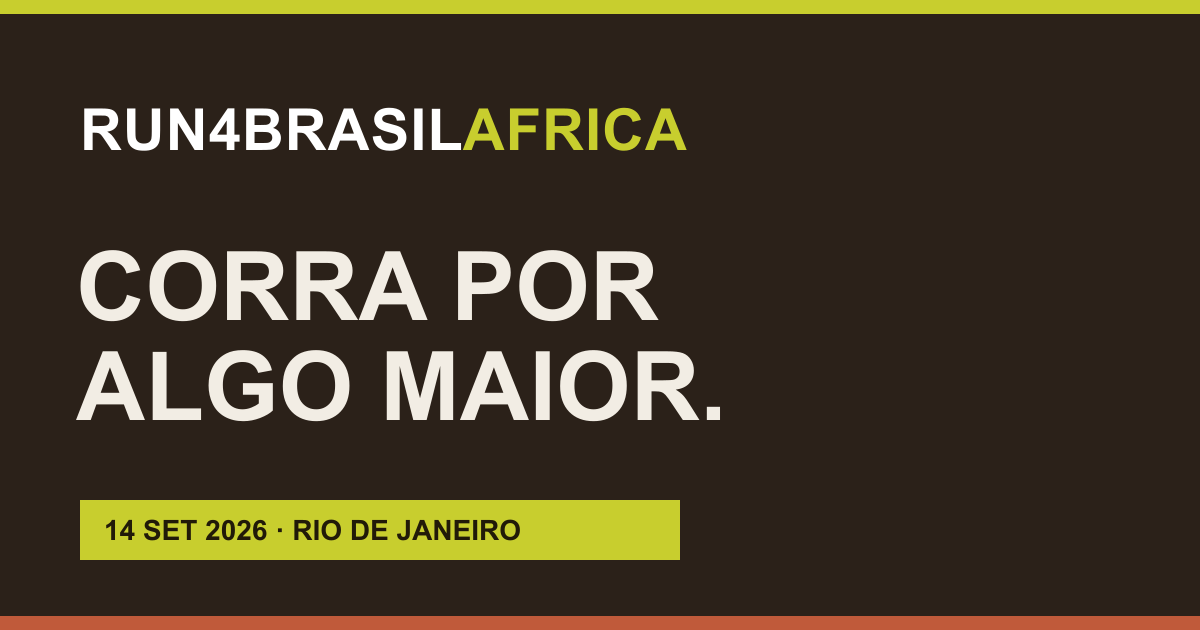
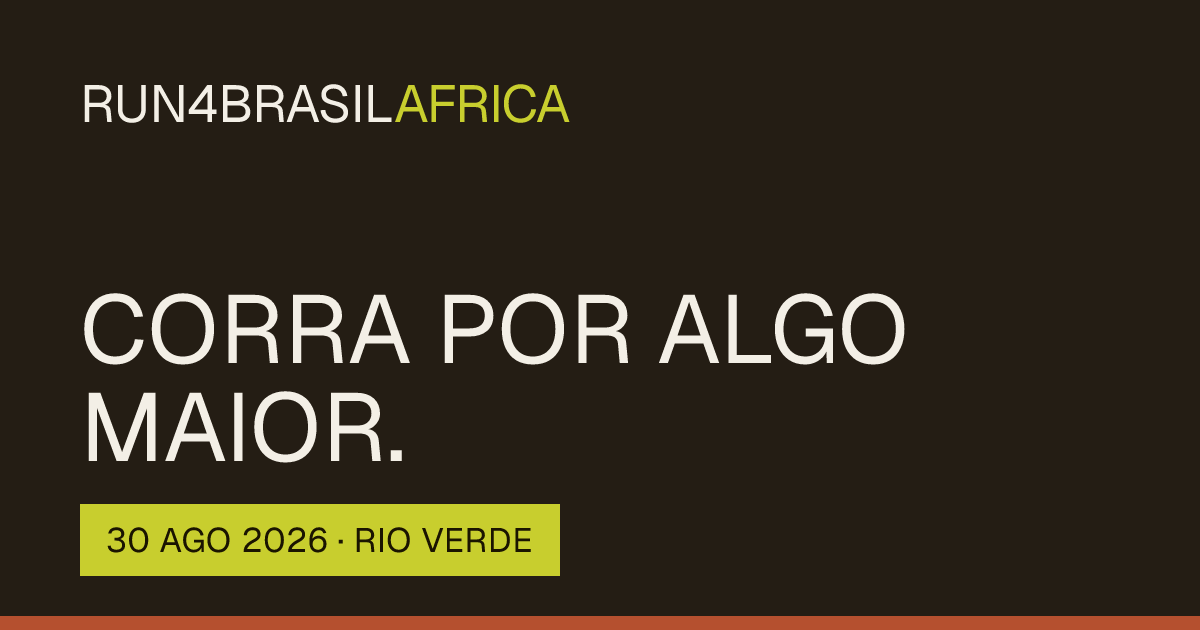
fix(worker): remove next/og (Error 1102) — imagem de compartilhamento estática/configurável
Causa do Error 1102 'Worker exceeded resource limits' (intermitente, cold start): o
opengraph-image.tsx com next/og (Satori + resvg wasm) inflava o Worker e estourava o limite
de recursos na inicialização, derrubando o site inteiro.

- Remove app/opengraph-image.tsx e a dependência de next/og
- Imagem OG volta a ser um asset: branding.ogImage (upload em Configurações) OU /og.png (default)
- public/og.png atualizado para a arte correta (30 AGO 2026 · RIO VERDE)
- generateMetadata + EventJsonLd apontam para essa imagem; título/descrição seguem dinâmicos
- ADM Configurações: upload 'Imagem de compartilhamento'

Verificado: 10/10 respostas 200 (antes 1102 intermitente); worker menor, sem .wasm.

Docs: ARQUITETURA.md

diff --git a/src/app/admin/(painel)/configuracoes/page.tsx b/src/app/admin/(painel)/configuracoes/page.tsx
@@ -221,6 +221,19 @@ function ConfiguracoesForm({
                 Imagem quadrada pequena (ex.: PNG 64×64 ou 128×128).
               </p>
             </div>
+            <div className="sm:col-span-2">
+              <FieldLabel>Imagem de compartilhamento (WhatsApp / redes)</FieldLabel>
+              <ImageUpload
+                value={branding.ogImage}
+                onChange={(url) => setBranding({ ...branding, ogImage: url })}
+                className="h-40 bg-[#2b2118]"
+                label="imagem de compartilhamento"
+              />
+              <p className="mt-1.5 text-[12px] text-adm-muted">
+                Aparece ao compartilhar o link (proporção 1200×630). Se vazio, usa a
+                imagem padrão. Atualize-a se mudar a data/cidade do evento.
+              </p>
+            </div>
           </div>
         </Card>
 

diff --git a/src/app/layout.tsx b/src/app/layout.tsx
@@ -31,6 +31,7 @@ export async function generateMetadata(): Promise<Metadata> {
   const favicon = content.branding?.favicon;
 
   const brand = event.brandName || "Run4BrasilAfrica";
+  const ogImage = content.branding?.ogImage || "/og.png";
   const headline = event.tagline || "Corra por algo maior";
   const title = `${brand} — ${headline}`;
   const where = event.dateLabel || event.city || "";
@@ -63,11 +64,13 @@ export async function generateMetadata(): Promise<Metadata> {
       siteName: brand,
       locale: "pt_BR",
       type: "website",
+      images: [{ url: ogImage, width: 1200, height: 630, alt: brand }],
     },
     twitter: {
       card: "summary_large_image",
       title,
       description: shortDescription,
+      images: [ogImage],
     },
   };
 }

diff --git a/src/components/site/EventJsonLd.tsx b/src/components/site/EventJsonLd.tsx
@@ -29,7 +29,7 @@ export default function EventJsonLd({ c }: { c: SiteContent }) {
         addressCountry: "BR",
       },
     },
-    image: [`${SITE}/opengraph-image`],
+    image: [c.branding?.ogImage || `${SITE}/og.png`],
     url: `${SITE}/`,
     organizer: {
       "@type": "Organization",

diff --git a/src/lib/content/types.ts b/src/lib/content/types.ts
@@ -151,6 +151,8 @@ export interface Branding {
   logo?: string;
   /** Browser-tab icon (favicon). */
   favicon?: string;
+  /** Social share image (Open Graph / WhatsApp). Falls back to /og.png. */
+  ogImage?: string;
 }
 
 /**

diff --git a/ARQUITETURA.md b/ARQUITETURA.md
@@ -77,14 +77,17 @@ ADM (browser)          ── PUT ──▶  /api/content ──▶ D1
 - **Domínio único** (`src/middleware.ts`): qualquer acesso a `www.<apex>` ou a um
   `*.workers.dev` é 308-redirecionado para `https://run4brasilafrica.com.br` (preserva
   caminho/query). Só o apex e o localhost passam direto.
-- **Compartilhamento (Open Graph) dinâmico**: `app/layout.tsx` usa `generateMetadata()`
-  lendo o conteúdo ao vivo — título e descrição saem de `event` (marca, `dateLabel`, cidade),
-  então o card do WhatsApp/Twitter nunca diverge das Configurações. A **imagem** do card é
-  gerada em runtime por `app/opengraph-image.tsx` (`next/og`/ImageResponse, `force-dynamic`)
-  com a marca, a chamada e o selo de data/cidade — funciona no runtime do Worker. O JSON-LD
-  (`EventJsonLd`) também aponta a imagem para `/opengraph-image`. (Redes sociais fazem cache
-  do card; um link já compartilhado pode continuar mostrando o antigo até revalidar — ex.:
-  Facebook Sharing Debugger.)
+- **Compartilhamento (Open Graph)**: `app/layout.tsx` usa `generateMetadata()` lendo o conteúdo
+  ao vivo — **título e descrição** saem de `event` (marca, `dateLabel`, cidade), então o texto do
+  card nunca diverge das Configurações. A **imagem** do card é `branding.ogImage` (upload em ADM >
+  Configurações) com fallback para o **estático `public/og.png`** (1200×630). O JSON-LD
+  (`EventJsonLd`) usa a mesma imagem.
+  - **Por que estática e não gerada em runtime**: uma versão anterior gerava a imagem com
+    `next/og` (Satori + resvg **wasm**). Isso inflou o Worker e causava **Error 1102 (exceeded
+    resource limits)** intermitente em cold starts, derrubando o site inteiro. Removido — a imagem
+    voltou a ser um asset leve, configurável pelo ADM (atualize-a se mudar data/cidade).
+  - Redes sociais fazem cache do card; um link já compartilhado pode continuar mostrando o antigo
+    até revalidar (ex.: Facebook Sharing Debugger, ou compartilhar com `?v=2`).
 
 ## Autenticação (ADM)
 